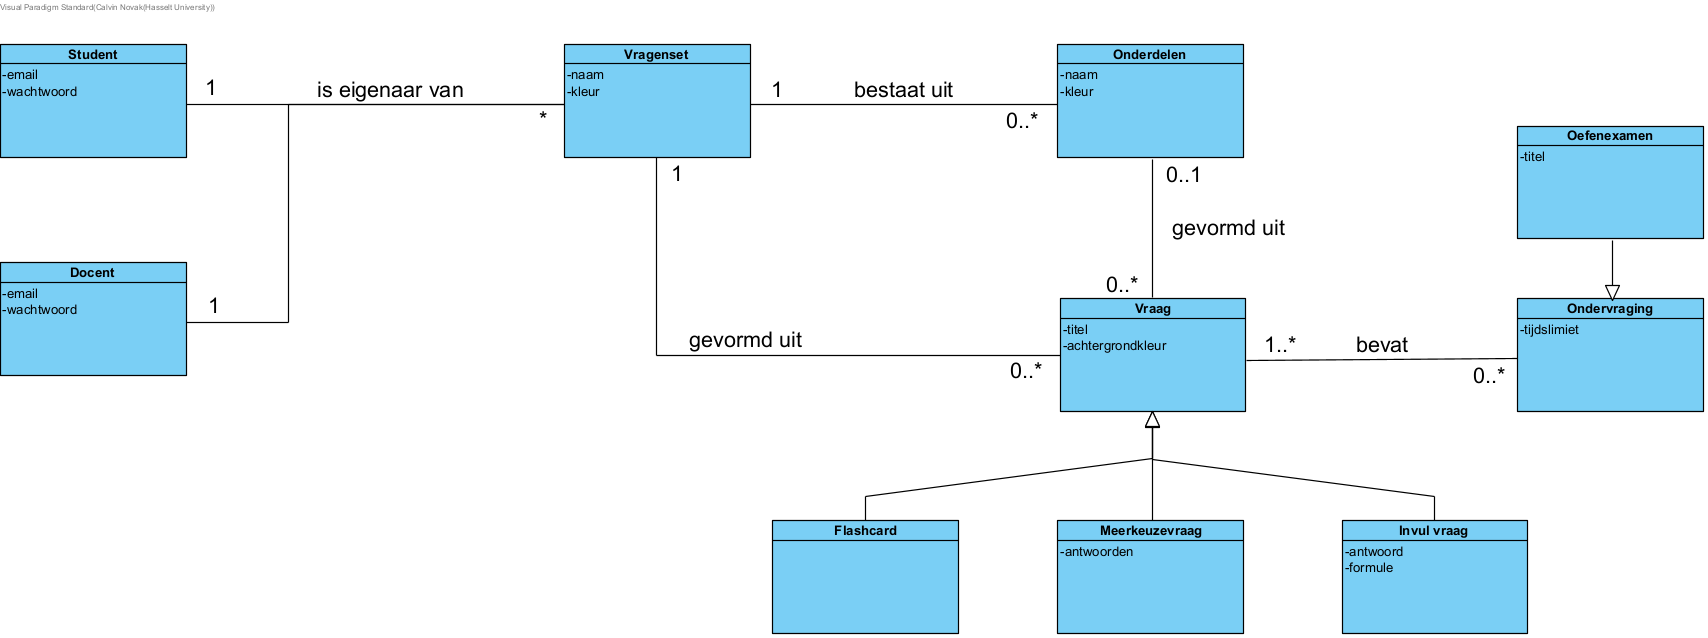
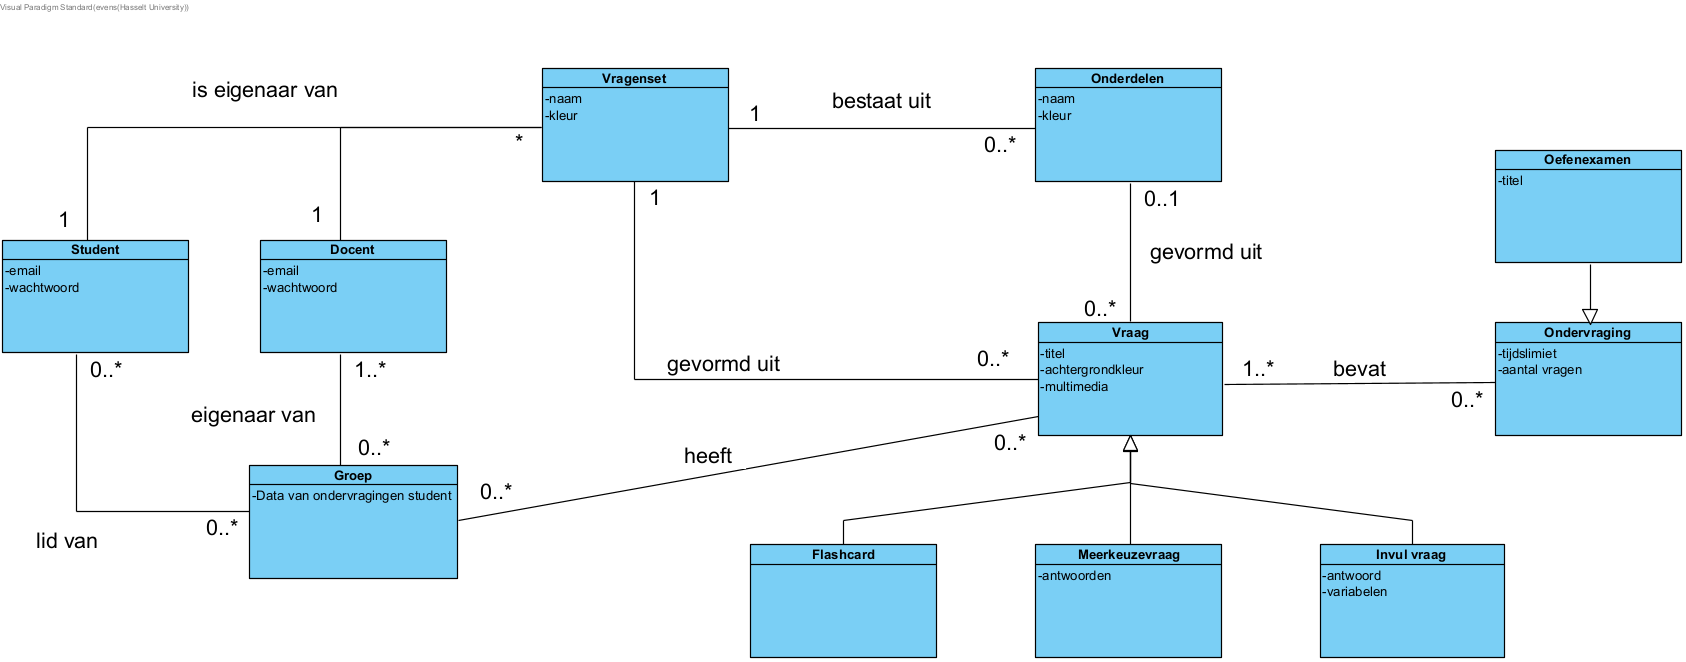
Verwerking feedback

diff --git a/docs/Casual_use_cases.md b/docs/Casual_use_cases.md
@@ -3,7 +3,7 @@
 **Actoren**: Student, Docent<br>
 **Beschrijving:**
 * <u>Hoofdscenario:</u><br>
-Een student of leerkracht wil een bepaalde vraag maken om dit later te kunnen gebruiken. De gebruiker navigeert naar een bestaande vragenset waar die de vraag in wil zetten en daarin selecteren ze de optie om een nieuwe vraag aan te maken. Vervolgens selecteert de gebruiker het type vraag dat ze willen hebben (multiple choice, flashcard, invulvraag) met de correcte oplossing. <br>
+Een student of docent wil een bepaalde vraag maken om dit later te kunnen gebruiken. De gebruiker navigeert naar een bestaande vragenset waar die de vraag in wil zetten en daarin selecteren ze de optie om een nieuwe vraag aan te maken. Vervolgens selecteert de gebruiker het type vraag dat ze willen hebben (multiple choice, flashcard, invulvraag) met de correcte oplossing. <br>
 * <u>Alternatieve scenario's:</u><br>
 Indien de gebruiker een invulvraag selecteert kan de gebruiker een variabele selecteren en vervolgens kan er een bepaald bereik opgezet worden om het aantal/type (bv. geen kommagetallen) cijfers te limiteren.
 
@@ -13,9 +13,9 @@ Indien de gebruiker een invulvraag selecteert kan de gebruiker een variabele sel
 **Actoren:** Student, Docent<br>
 **Beschrijving:**
 * <u>Hoofdscenario:</u><br>
-De student of leerkracht wilt vragen aanmaken dus dient eerst een vragenset aan te maken. Op het hoofdscherm selecteert de gebruiker de optie om een nieuwe vragenset aan te maken en geeft de gebruiker een naam in voor deze vragenset.
+De student of docent wilt vragen aanmaken dus dient eerst een vragenset aan te maken. Op het hoofdscherm selecteert de gebruiker de optie om een nieuwe vragenset aan te maken en geeft de gebruiker een naam in voor deze vragenset.
 * <u>Alternatieve scenario's:</u><br>
-De gebruiker vindt de default kleur van de vragenset niet mooi en kiest een andere kleur.
+De gebruiker vindt de default kleur van de vragenset niet mooi of vind dat het voor een onduidelijk ordening zorgt en kiest een andere kleur.
 
 <br>
 
@@ -36,7 +36,7 @@ De gebruiker kan de sessie beëindigen of pauzeren en later doordoen.
 * <u>Hoofdscenario:</u><br>
 De gebruiker selecteert de optie om een proefexamen samen te genereren en kiest hierbij een aantal vragen of vragensets. Hij kan hierbij bepalen hoeveel vragen er op het proefexamen komen. De applicatie stelt dan een proefexamen bestaande uit de geselecteerde vragen. Verder kan er ook een timer ingesteld worden. Het proefexamen kan ook opgeslagen worden.
 * <u>Alternatieve scenario's:</u><br>
-Indien er onvoldoende vragen in de vragenset zitten, krijgt de gebruiker een melding en wordt gevraagd om meer vragen toe te voegen of een proefexamen te maken met minder vragen.
+Indien er onvoldoende in de vragenset zitten om het proefexamen op te stellen met de ingestelde vragen, krijgt de gebruiker een melding en wordt gevraagd om meer vragen toe te voegen aan de vragenset of een proefexamen te maken met minder vragen.
 
 <br>
 
@@ -44,7 +44,7 @@ Indien er onvoldoende vragen in de vragenset zitten, krijgt de gebruiker een mel
 **Actoren:** Student, Docent<br>
 **Beschrijving:**
 * <u>Hoofdscenario:</u><br>
-De Student/Leerkracht wil inloggen om te kunnen delen dus hij navigeert naar de login pagina van de applicatie en dan logt die in. Als dit succesvol werkt, krijgt die toegang tot het delen en online saven van hun data.
+De Student/docent wil inloggen om te kunnen delen dus hij navigeert naar de login pagina van de applicatie en dan logt die in. Als dit succesvol werkt, krijgt die toegang tot het delen en online saven van hun data.
 * <u>Alternatieve scenario's:</u><br>
 Indien de inloggegevens onjuist zijn, wordt een foutmelding weergegeven met de optie om opnieuw te proberen.
 Indien de gebruiker geen account heeft kan hij registreren op deze pagina
@@ -55,9 +55,9 @@ Indien de gebruiker geen account heeft kan hij registreren op deze pagina
 **Actoren:** Student, Docent<br>
 **Beschrijving:**
 * <u>Hoofdscenario:</u><br>
-De Student/Leerkracht wil zijn vragenset delen met een vriend, dus klikt hij de share knop op de vragenset en kiest hij zijn vriend uit de vriendenlijst, Hierna ziet hun vriend een uitnodiging
+De Student/docent wil zijn vragenset delen met een vriend, dus navigeren ze naar de vragenset wat ze willen delen en kiezen ze hun vriend uit de vriendenlijst. Hierna wordt dit gemeld aan de vriend en kan hij/zij de gedeelde vraag bekijken.
 * <u>Alternatieve scenario's:</u><br>
-Als de vriend geen account heeft kan het Student/Leerkracht een unieke vragenset code delen
+Als de vriend geen account heeft kan het Student/docent een unieke vragenset code delen
 Als de vriend nog niet in je vriendenlijst zit kan die worden toegevoegd worden op basis van hun account-ID
 
 <br>
@@ -66,7 +66,7 @@ Als de vriend nog niet in je vriendenlijst zit kan die worden toegevoegd worden 
 **Actoren:** Docent <br>
 **Beschrijving:**
 * <u>Hoofdscenario:</u><br>
-De leerkracht heeft zijn examen/vragenset gemaakt en wil deze uiteindelijk delen aan de studenten. Dus hij maakt een groep aan. Hier kan hij andere gebruikers voor uitnodigen.
+De docent heeft zijn examen/vragenset gemaakt en wil deze uiteindelijk delen aan de studenten. Dus hij of zij maakt een groep aan. Hier kan hij of zij andere gebruikers voor uitnodigen.
 
 <br>
 
@@ -74,9 +74,9 @@ De leerkracht heeft zijn examen/vragenset gemaakt en wil deze uiteindelijk delen
 **Actoren:** Docent <br>
 **Beschrijving:**
 * <u>Hoofdscenario:</u><br>
-De leerkracht heeft ondertussen een groep aangemaakt en wenst leden toe te voegen, de leerkracht kan gebruikers individueel uitnodigen aan de hand van hun id/naam.
+De docent heeft ondertussen een groep aangemaakt en wenst studenten toe te voegen, de docent kan gebruikers individueel uitnodigen aan de hand van hun id/naam.
 * <u>Alternatieve scenario's:</u><br>
-Indien de leerkracht de id’s en namen van de gebruikers niet heeft of het een zeer grote groep is, kan de leerkracht een code genereren en die aan de leerlingen geven, die de code kunnen gebruiken om de groep te joinen.
+Indien de docent de id’s en namen van de gebruikers niet heeft of het een zeer grote groep is, kan de docent een code genereren en die aan de leerlingen geven, die de code kunnen gebruiken om de groep te joinen.
 
 <br>
 
@@ -84,6 +84,6 @@ Indien de leerkracht de id’s en namen van de gebruikers niet heeft of het een 
 **Actoren:** Docent <br>
 **Beschrijving:**
 * <u>Hoofdscenario:</u><br>
-De leerkracht heeft zijn examen of vragenset gemaakt en wil deze uiteindelijk delen aan de studenten. De leerkracht drukt dan op de share knop van wat hij/zij wil delen en selecteert een groep om het mee te delen.
+De docent heeft zijn examen of vragenset gemaakt en wil deze uiteindelijk delen aan de studenten. De docent selecteert wat hij/zij wil delen en selecteert een groep om het mee te delen.
 * <u>Alternatieve scenario's:</u><br>
-Indien de leerkracht wijzigingen in het examen of de vragenset wil aanbrengen, kan hij/zij het proefexamen eerst bewerken voordat het openbaar wordt gemaakt.
+Indien de docent wijzigingen in het examen of de vragenset wil aanbrengen, kan hij/zij het proefexamen eerst bewerken voordat het gedeeld wordt.

diff --git a/docs/Probleemstelling.md b/docs/Probleemstelling.md
@@ -1,10 +1,9 @@
 ## Probleemstelling 
-Als je als student flashcards gebruikt om te leren dan kan het zijn dat je bij grote vakken, of als je dit doet bij veel vakken, geen organisatie meer hebt tussen je flashcards en er soms een paar kwijtraakt. Dus zou een manier om flashcards te ordenen handig zijn.
+Als je als student flashcards gebruikt om te leren dan kan het zijn dat je bij grote vakken, of als je dit doet bij veel vakken, geen organisatie meer hebt tussen je flashcards en er soms een paar kwijtraakt. Dus zou een manier om flashcards te ordenen handig zijn. Verschillende kleuren flashcards gebruiken kan helpen met het ordenen ervan, maar alsnog is het soms toch onduidelijk door het limiterende aantal kleuren papier dat je kan bezitten.
 
 Naast de ordening van de flashcards zijn er nog verschillende nadelen aan fysieke flashcards. Als eerste zijn flashcards vooral goed om theorie te leren, maar zijn ze minder goed om oefeningen te maken. Dit is omdat je de antwoorden van je geschreven oefeningen of theorie flashcards na verloop van tijd uit je hoofd leert, zonder dat je daadwerkelijk begrijpt of effectief weet wat het inhoudt. Een manier om een oefening in te geven en hier iedere keer wat variatie in te hebben (Bv. met variabele getallen bij een formule), zou ervoor zorgen dat je daadwerkelijk leert hoe je zo een type oefening moet oplossen. Je gaat dan niet het antwoord van die ene oefening van buiten leren. 
 Nog een nadeel is dat als je een vriend hebt die vraagt om je zelfgemaakte flashcard te mogen gebruiken, dan moet je ze afgeven of kopiëren. Beide zijn niet ideaal, maar met een digitale versie van je flashcards zou je deze zonder veel inspanning kunnen delen met meerdere vrienden. 
 
-Met fysieke flashcards kun je ook een timer opzetten en zo proberen iedere vraag op tijd te beantwoorden. Verder kan je ook meerdere flashcards tegelijk proberen op te lossen binnen een bepaalde tijd. Deze functionaliteit gaan wij dan ook implementeren in de app. 
-Meerdere vragen proberen op te lossen binnen tijd is zeer gelijkaardig aan een proefexamen invullen. Met de app kunnen wij dan voor de student de vragen op de flashcards opstellen zodat deze eruitziet als een proefexamen. Proefexamens maken is iets wat veel studenten doen om een gevoel te krijgen hoe goed ze de leerstof beheersen en om minder stress te krijgen voor het examen. Maar het kan zijn dat je maar één of soms zelfs geen proefexamen van de docent krijgt. Dus een manier om zelf een proefexamen op te kunnen stellen is nooit nadelig om te hebben. Natuurlijk, als je handmatig een proefexamen samenstelt neemt dit tijd in beslag, maar hierdoor verdwijnt ook de verrassing van welke vragen je gaat krijgen op dit proefexamen. Dus een manier om dit voor je te laten doen (op basis van je flashcards) zou beter zijn. Natuurlijk als je je zelfgemaakte flashcards gebruikt om het proefexamen te genereren heb je deze vragen ooit zelf opgeschreven, maar als de student te veel flashcards heeft om ze moeilijk van buiten te leren of er heeft waar variabele elementen in zitten kan dit gegenereerd proefexamen toch nog een grote meerwaarde hebben. Het willekeurig kiezen van flashcards zorgt er ook voor dat het moeilijker is voor de student om het antwoord van buiten te weten.
+Met fysieke flashcards kun je ook een timer opzetten en zo proberen iedere vraag op tijd te beantwoorden. Verder kun je ook meerdere flashcards tegelijk proberen op te lossen binnen een bepaalde tijd, zodat je nog een extra moeilijkheidsgraad hebt met de bijkomende tijdsdruk. Meerdere vragen proberen op te lossen binnen tijd is zeer gelijkaardig aan een (proef)examen invullen. Dit is ook de reden dat veel studenten proefexamens maken, om een gevoel te krijgen van hoe goed ze de leerstof beheersen en om minder stress te krijgen voor het examen. Maar het kan zijn dat je maar één of soms zelfs geen proefexamen van de docent krijgt. Dus een manier om zelf een proefexamen op te kunnen stellen is nooit nadelig om te hebben. Natuurlijk, als je handmatig een proefexamen samenstelt neemt dit tijd in beslag, maar hierdoor verdwijnt ook de verrassing van welke vragen je gaat krijgen op dit proefexamen. Dus een manier om dit voor je te laten doen (op basis van je zelfgemaakte vragen) zou beter zijn. Natuurlijk als je je zelfgemaakte flashcards gebruikt om het proefexamen te genereren heb je deze vragen ooit zelf opgeschreven, maar als de student te veel flashcards heeft om ze moeilijk van buiten te leren of er heeft waar variabele elementen in zitten kan dit gegenereerd proefexamen toch nog een grote meerwaarde hebben. Het willekeurig kiezen van flashcards zorgt er ook voor dat het moeilijker is voor de student om het antwoord van buiten te weten.
 
-Als we dan toch proefexamens integreren zou het natuurlijk ook goed zijn voor de professor of assistenten van een bepaald vak om zelf proefexamens op te stellen en deze dan ook vrij te geven op de software. Dit kan gedaan worden aan de hand van een groep op te stellen en alle studenten hierin toe te voegen. Vervolgens kun je een bepaald proefexamen in deze groep delen. Natuurlijk heb je dan een manier nodig om studenten en mensen van het onderwijsteam te kunnen onderscheiden. Dit is mogelijk met soorten accounts te onderscheiden tussen een docent account en een student account, je kan het soort account kiezen wanneer je voor het eerst registreert.
+In sommige scholen/universiteiten hebben docenten geen globaal platform (zoals bv. blackboard) om hun proefexamens te delen, en moeten ze dit doen via een externe applicatie (zoals bv. mail). Het telkens selecteren van elke leerling om te delen is ook zeer tijdrovend en als dit vaker moet gedaan worden is er ook veel herhaling van een tijdrovende activiteit dat niet nodig is. Dus een centraal punt waar docenten proefexamens kunnen delen is ook voordeliger voor hun.

diff --git a/docs/UC_doorloop_vragen.md b/docs/UC_doorloop_vragen.md
@@ -1,0 +1,76 @@
+# Fully dressed use case doorloop vragen
+**Use case:** Doorloop vragen 
+
+**Scope:** Offline deel van Leerhulpmiddel
+
+**Level:** user-goal
+
+**Primary Actor:** Student of Docent
+
+**Stakeholders and interests:** 
+* Student: Wil makkelijk door de vragen kunnen gaan en feedback krijgen op hun antwoorden om dit te kunnen studeren.
+* Onderwijssysteem: Wil dat student goed studeert, zodat hij/zij goed op toetsen doet.
+
+**Preconditions:** Vragen dienen aangemaakt te zijn voordat deze doorlopen kunnen worden
+
+**Postconditions:** Student heeft de ondervraging of het proefexamen volledig doorgelopen en heeft de vragen behandeld en beantwoord indien nodig
+
+**Main Success Scenario:**
+1. De student kiest een vragenset waar ze vragen van willen studeren
+2. Het systeem geeft de gebruiker een vraag om te beantwoorden
+3. De gebruiker bekijkt de vraag
+4. De gebruiker geeft een antwoord op de vraag 
+5. Systeem geeft feedback op het antwoord
+6. De gebruiker gaat naar volgende vraag
+
+Herhaal deze stappen totdat je alle vragen hebt beantwoord.
+
+7. Systeem geeft algemeen feedback over beantwoorde vragen
+8. De gebruiker sluit de ondervraging af
+
+**Extensions:**
+
+*a. De ingestelde timer voor het proefexamen loopt af:
+1. Het systeem stopt het proefexamen
+2. De gebruiker krijgt de antwoorden op de vragen te zien.
+3. De gebruiker sluit het proefexamen af.
+
+*b. De ingestelde timer per vraag loopt af:
+1. De gebruiker kan deze vraag niet meer beantwoorden.
+2. De gebruiker krijgt het antwoord van de vraag te zien.
+3. De gebruiker gaat verder met de rest van de ondervraging.
+
+1a. De gebruiker heeft een tijdslimiet ingestelt voor iedere vraag van een ondervraging:
+1. Het systeem vermeld aan de gebruiker dat de ingegeven timer per vraag telt.
+2. De gebruiker bevestigt de timer.
+3. Het systeem stelt de timer in.
+
+1a. De student is bezig met een proefexamen:
+1. De gebruiker kan tussen vragen navigeren naar eigen wil (vooruit, teruggaan, etc. zoals in een echt examen).
+2. Na het beantwoorden van alle vragen beeindigt de gebruiker de ondervraging.
+
+1b. De gebruiker stelt een tijdslimiet in voor het proefexamen:
+1. Het systeem vermeld aan de gebruiker dat de ingegeven timer voor het hele proefexamen telt.
+2. De gebruiker bevestigt de timer.
+3. Het systeem stelt de timer in.
+
+2a. De gebruiker slaat de vraag over:
+1. De gebruiker is een ondervraging bezig, de vraag wordt fout gerekend:<br>
+	1a. Indien de gebruiker een proefexamen aan het maken is:
+      1. De gebruiker kan navigeren naar een andere vraag naar keuze
+      2. De gebruiker kan deze later beantwoorden door hier opnieuw na te navigeren
+
+5a. Indien de vraag van het type flashcard is:
+1. De gebruiker geeft systeem eigen feedback van hoe vraag is gegaan.
+
+6a. Er zijn geen volgende vragen meer:
+1. De gebruiker eindigt ondervraging
+
+**Special Requirements:**
+De volgende vraag dient binnen de 100ms getoond te worden
+
+**Technology and Data Variations List:**
+Geen
+
+**Frequency of Occurences:** 
+Dit wordt frequent gebruikt, namelijk wanneer de gebruiker studeert aan de hand van ondervragingen of oefenexamens

diff --git a/docs/UC_maak_vragen.md b/docs/UC_maak_vragen.md
@@ -1,0 +1,58 @@
+# Fully dressed use case maak vragen
+**Use case:** Maak vraag
+
+**Scope:** Offline deel van Leerhulpmiddel
+
+**Level:** User goal
+
+**Primary Actor:** Student of Docent
+
+**Stakeholders and interests:**
+* Student: Wilt naderhand de leerstof leren op basis van de gemaakte vragen.
+* Docent: Wilt vragen maken, zodat zijn studenten deze kunnen gebruiken tijdens hun studies.
+
+**Preconditions:** De gebruiker heeft minstens 1 vragenset.
+
+**Postconditions:** De gemaakte vraag is opgeslagen. Er wordt een online back-up gemaakt als de gebruiker ingelogd doen.
+
+**Main Success Scenario:**
+
+1. Gebruiker heeft een vraag die hij in de software wil invullen.
+2. Gebruiker navigeert naar de vragenset waar zij deze vraag in wil zetten
+3. Gebruiker selecteert de optie om de vraag aan te maken in de vragenset.
+4. Gebruiker selecteert het type vraag: flashcard, meerkeuzevraag of invulvraag.
+5. Gebruiker voert de vraag gegevens in
+6. Het systeem verwerkt deze elementen en valideert de dat ze correct zijn ingesteld.
+7. De gebruiker kiest waar ze dit willen opslaan: als online backup, lokaal of op beide manieren.
+8. Het systeem slaat de vraag op in de database.
+9. Bij succesvolle opslag ontvangt de gebruiker een bevestiging.
+10. De vraag is beschikbaar onder de vragenset die de gebruiker had geselecteerd en is klaar voor gebruik.
+
+**Uitbreidingen (Alternatieve Stromen)**
+
+5a. Als de vraag een flashcard is: 
+1. de gebruiker vult de "Vraag" en "Antwoord" velden in.
+
+5b. Als de vraag een meeurkeuze vraag is: 
+1. de gebruiker vult de vraagtekst, meerdere antwoordopties en het juiste antwoord(en) in.
+
+5c. Als de vraag een invulvraag is: 
+1. de gebruiker vult de “Vraag” en “Antwoord” velden in. In het vraag veld kan de gebruiker verschillende variabelen invoegen voor een meer dynamisch antwoord. Je kan hier dan een bereik aan geven, zodat het systeem tijdens een ondervraging hier dynamisch een waarde aan geeft.
+
+5c. Gebruiker slaat variabele elementen over:
+1. Het systeem toont een foutmelding en vraagt de gebruiker om de ontbrekende elementen in te vullen.
+
+6*. Ongeldige of Onvolledige Invoer:
+1. Het systeem toont een foutmelding en vraagt de gebruiker om de ontbrekende of ongeldige velden aan te passen.
+
+7*. De gebruiker is offline:
+1. De gebruiker kan de vraag dan alleen lokaal opslaan.
+
+9a. Opslagfout (Bv. netwerkinstabiliteit tijdens het opslaan):
+1. Het systeem geeft een foutmelding en de gebruiker moet vanaf stap 7 verder werken.
+
+**Special Requirements:** Het maken van een invulvraag mag niet verwarrend zijn voor de gebruiker.
+
+**Technology and Data Variations List:** Geen
+
+**Frequency of Occurences:** Dit wordt redelijk frequent uitgevoerd door studenten en docenten die vragen willen maken om te willen leren/delen.

diff --git a/docs/FURPS+.md b/docs/FURPS+.md
@@ -1,13 +1,52 @@
 ### Functionality
-Het systeem moet:
 <ol>
-    <li>vragen kunnen creëren</li>
-    <li>vragen delen</li>
-    <li>een keuze maken over welke vraag als volgende in de ondervraging komt op basis van vorige prestaties</li>
-    <li>toelaten om ondervragingen te customizen(aantal vragen, tijd per vraag, ...)</li>
-    <li>oefenexamens kunnen genereren</li>
-    <li>accounts kunnen (creëren, beheren)</li>
-    <li>lokaal kunnen opslaan en online indien mogelijk(ingelogd met actieve internetverbinding)</li>
+    <li> Vragen: </li>
+        <ol type="i">
+            <li> Kan een vraag maken</li>
+            <li> Je kan kiezen wat voor soort vraag je wilt maken (meerkeuze, invulvraag, flashcard)</li>
+            <li> Kan afbeeldingen, audio, videos toevoegen aan vragen als hulpmiddel</li>
+            <li> Kan vragen delen met vrienden </li>
+        </ol>
+    <li> Ondervragingen: </li>
+        <ol>
+            <li> Je kan een ondervraging maken op basis van geselecteerde vragen </li>
+            <li> Je kan ze customizen </li>
+            <ol type="a">
+                <li> Je kan een tijd per vraag instellen </li>
+                <li> Het aantal vragen kan gekozen worden </li>
+            </ol>
+            <li> Totaaltijd Dat je bezig bent wordt bijgehouden </li>
+            <li> Een keuze maken over welke vraag als volgende in de ondervraging komt op basis van vorige prestaties, de voormalig fout ingevulde vragen worden herhaald.</li>
+        </ol>
+    <li>Oefenexamens:</li>
+        <ol  type="i">
+            <li> Je kan een proefexamen maken op basis van geselecteerde vragen.</li>
+            <li> Je kan deze customizen </li>
+                <ol type="a">
+                    <li> Het aantal vragen </li>
+                    <li> Je kan een maximum totaaltijd instellen </li>
+                </ol>
+            <li> Neemt een subset van geselecteerde vragen zonder rekening te houden met prestaties </li>
+        </ol>
+    <li> Accounts: </li>
+        <ol type="i"> 
+            <li> Kan accounts aanmaken en beheren </li>
+                <ol type="a">
+                    <li> Docent account </li>
+                    <li> Student account </li>
+                </ol>
+        </ol>
+    <li> Groepen: </li>
+        <ol type="i">
+            <li> Een docent kan een groep aanmaken </li>
+            <li> Kan vragen delen in de groep </li>
+            <li> De docent ontvangt info over hoe de studenten de ondervragingen gemaakt hebben </li>
+        </ol>
+    <li> Opslaan van vragen: </li>
+        <ol type="i">
+            <li> Lokaal opslaan </li>
+            <li> Indien de gebruiker ingelogd is, dan kan de gebruiker online een back-up hiervan op de server opslaan </li>
+        </ol>
 </ol>
 
 ### Usability

diff --git a/README.md b/README.md
@@ -28,6 +28,8 @@
 
 ### Use cases
 
+[Link](docs/UC_maak_vragen.md) naar de fully dressed use case "Maak vragen"
+[Link](docs/UC_doorloop_vragen.md) naar de fully dressed use case "doorloop vragen"
 [Link](docs/Casual_use_cases.md) naar de pagina van alle casual use cases
 
 </details>
